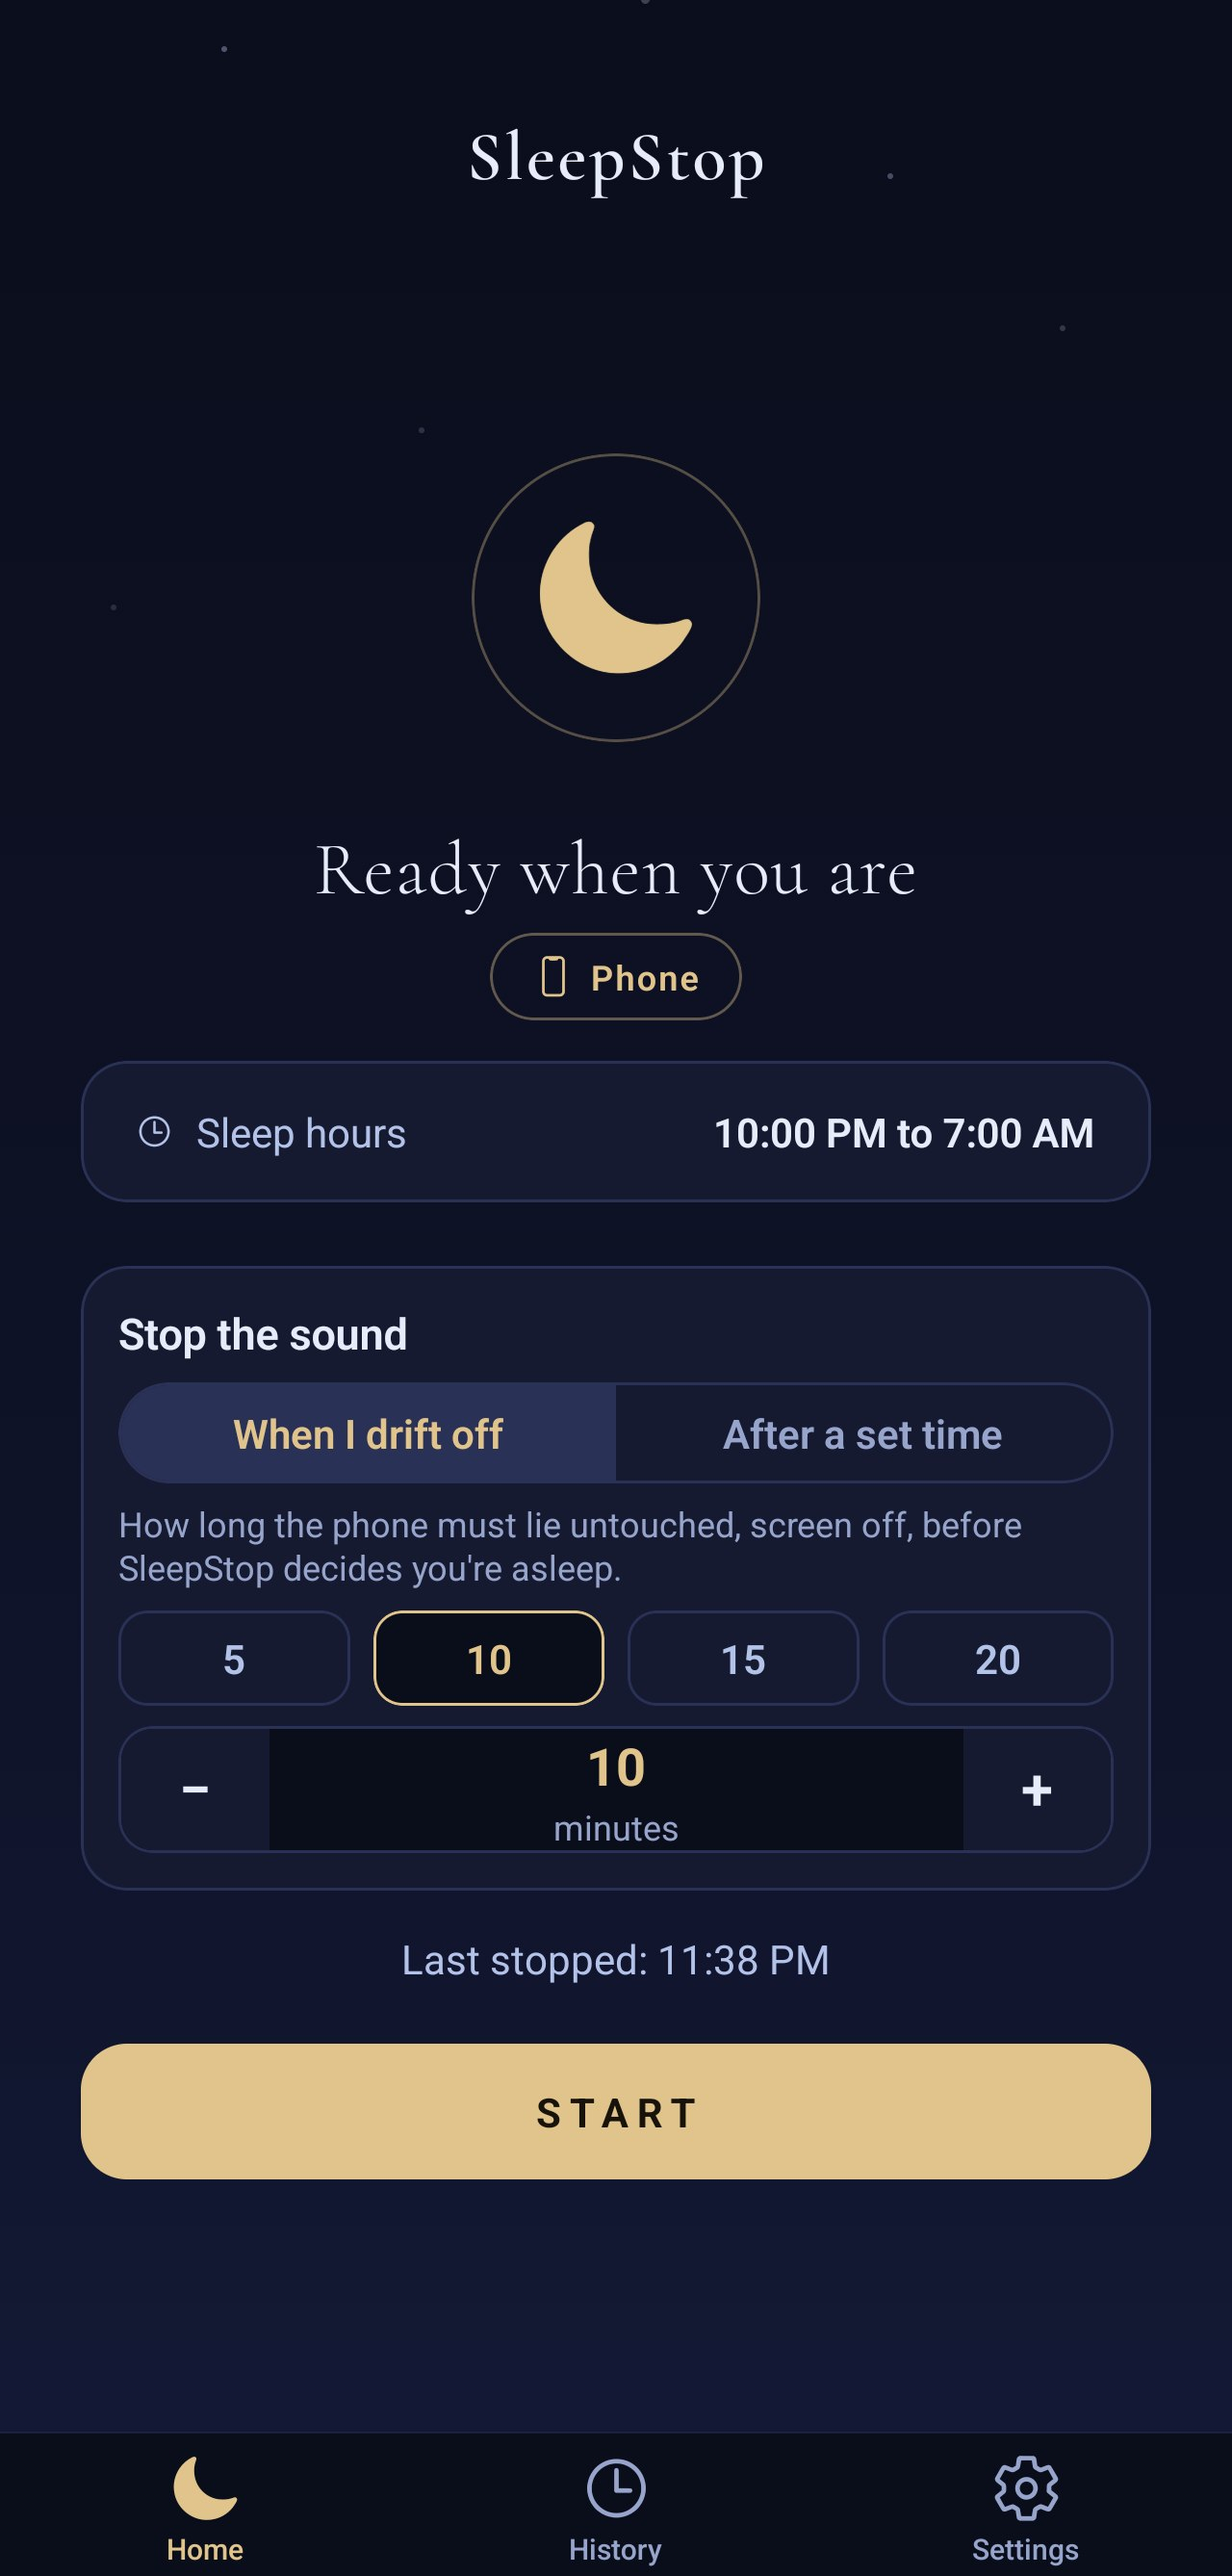
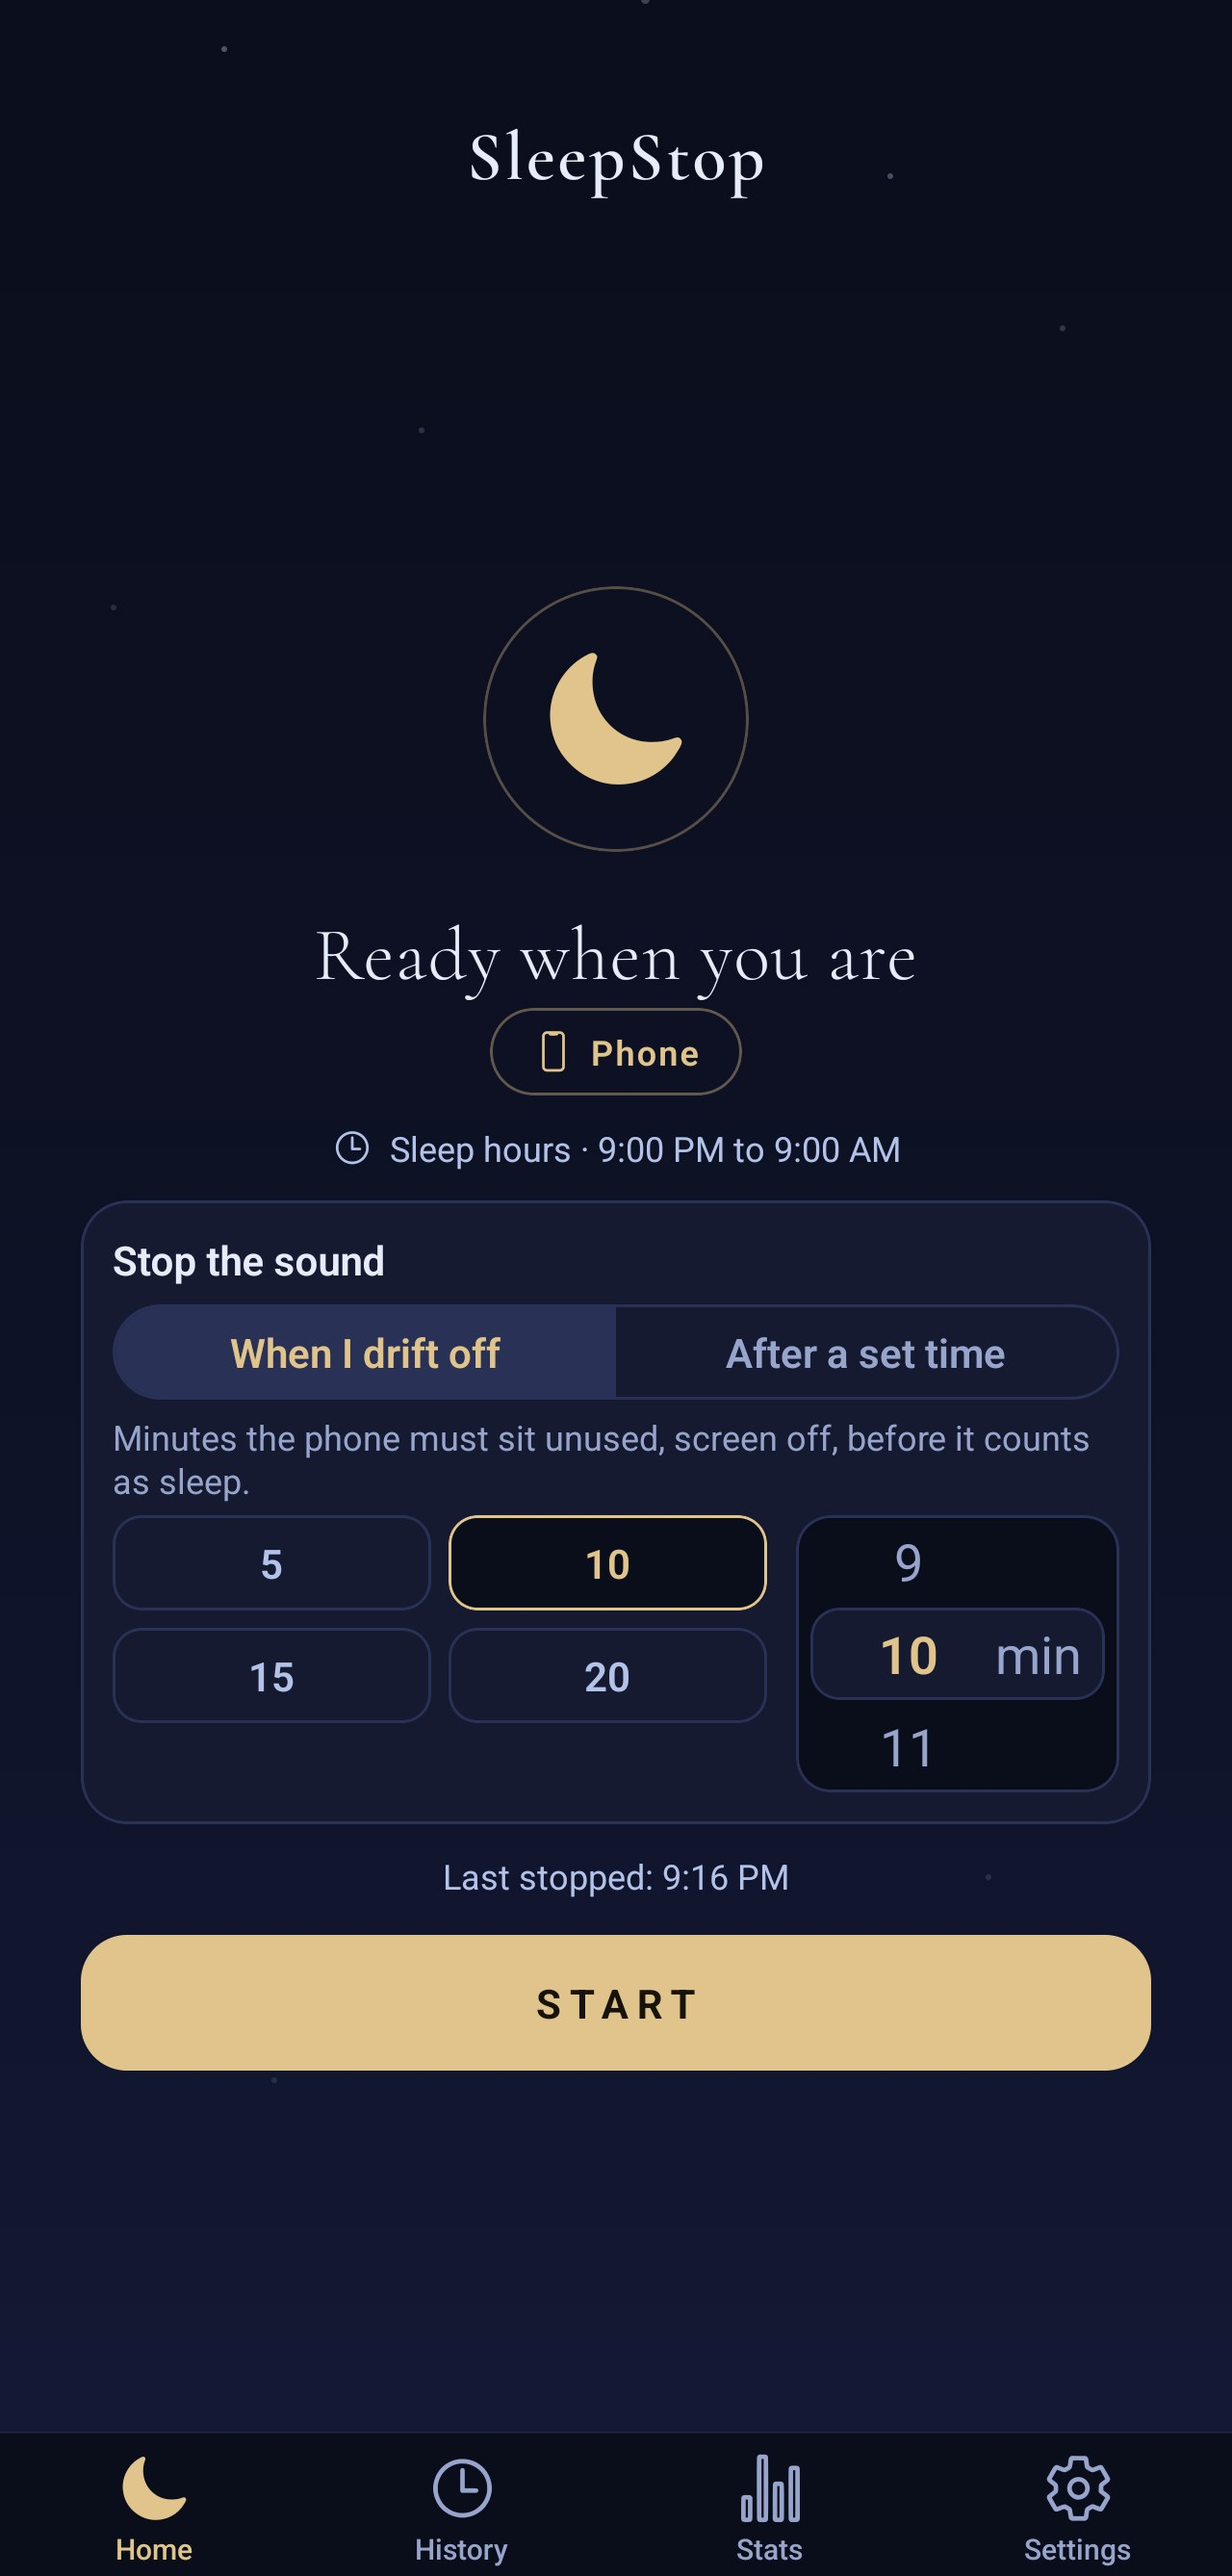
content: reshoot all five app screenshots against the Home/Settings rebuild
Mirrors StopSleepApp/SleepStopWeb bd4778e -- see that commit for the full
recipe and reasoning. Same five files, same index.html copy edits; this
repo's own og:url/absolute-image meta tags are untouched.

diff --git a/index.html b/index.html
@@ -163,13 +163,13 @@
             <div class="phone-pair">
               <div class="phone-pair-item">
                 <div class="phone-frame">
-                  <img src="assets/phone-home.jpg" alt="SleepStop Home screen in Smartwatch mode: status, a sleep-hours summary, always-ready and wind-the-sound-back toggles" />
+                  <img src="assets/phone-home.jpg" alt="SleepStop Home screen in Smartwatch mode: status, a sleep-hours summary, a watch-app link, and always-ready and wind-the-sound-back toggles" />
                 </div>
                 <p class="pair-label">With a Smartwatch</p>
               </div>
               <div class="phone-pair-item">
                 <div class="phone-frame">
-                  <img src="assets/phone-home-phone.jpg" alt="SleepStop Home screen in phone-only mode: choose to stop when you drift off, or after a set time" />
+                  <img src="assets/phone-home-phone.jpg" alt="SleepStop Home screen in phone-only mode: choose to stop when you drift off, or dial in an exact number of minutes on the same screen" />
                 </div>
                 <p class="pair-label">Just your phone</p>
               </div>
@@ -181,8 +181,8 @@
             <h3>Arm it once, not every night.</h3>
             <p>With a Smartwatch, turn on "always ready" and SleepStop waits quietly in the
               background - no opening the app before bed. Just your phone? Pick "when I
-              drift off" or "after a set time" on the very same screen, and press start
-              when you're ready to sleep.</p>
+              drift off" or "after a set time" on the very same screen, dial in the exact
+              minutes, and press start when you're ready to sleep.</p>
           </div>
         </div>
 
@@ -190,7 +190,7 @@
           <div class="feature-media">
             <div class="device-combo">
               <div class="phone-frame">
-                <img src="assets/phone-history.jpg" alt="SleepStop History: a timestamped list of the nights it muted your audio, the most recent one outlined in gold." />
+                <img src="assets/phone-history.jpg" alt="SleepStop History: a timestamped list of the nights it muted your audio - app, chapter and position - the most recent one outlined in gold." />
               </div>
               <div class="watch-frame">
                 <img src="assets/watch-nightgraph.png" alt="Night graph on the Epix Pro: an overnight heart-rate trace with the sleep-onset marker" />
@@ -229,7 +229,7 @@
         <div class="feature-row">
           <div class="feature-media">
             <div class="phone-frame">
-              <img src="assets/phone-settings.jpg" alt="SleepStop Settings screen: a phone-or-watch source picker and a sleep-hours row" />
+              <img src="assets/phone-settings.jpg" alt="SleepStop Settings screen: a phone-or-watch source picker, your watch brand with its own setup steps, and a sleep-hours row" />
             </div>
             <p class="feature-caption">Settings - pick your source, set your hours</p>
           </div>
@@ -237,8 +237,10 @@
             <p class="eyebrow">Tuned to your body</p>
             <h3>"Asleep" means asleep for you.</h3>
             <p>Choose a Smartwatch or just your phone right here, and tell SleepStop
-              the hours you actually sleep. With a watch, detection tunes itself to your
-              own resting heart rate rather than a one-size-fits-all number - it keeps
+              the hours you actually sleep. Picking a watch brand opens its own setup steps
+              on the spot, and a "missed a night?" checklist is one tap away too - the same
+              shape as every other row on the screen. With a watch, detection tunes itself to
+              your own resting heart rate rather than a one-size-fits-all number - it keeps
               sharpening itself the more real nights it sees, and telling it your actual
               sleep hours speeds that up.</p>
           </div>
